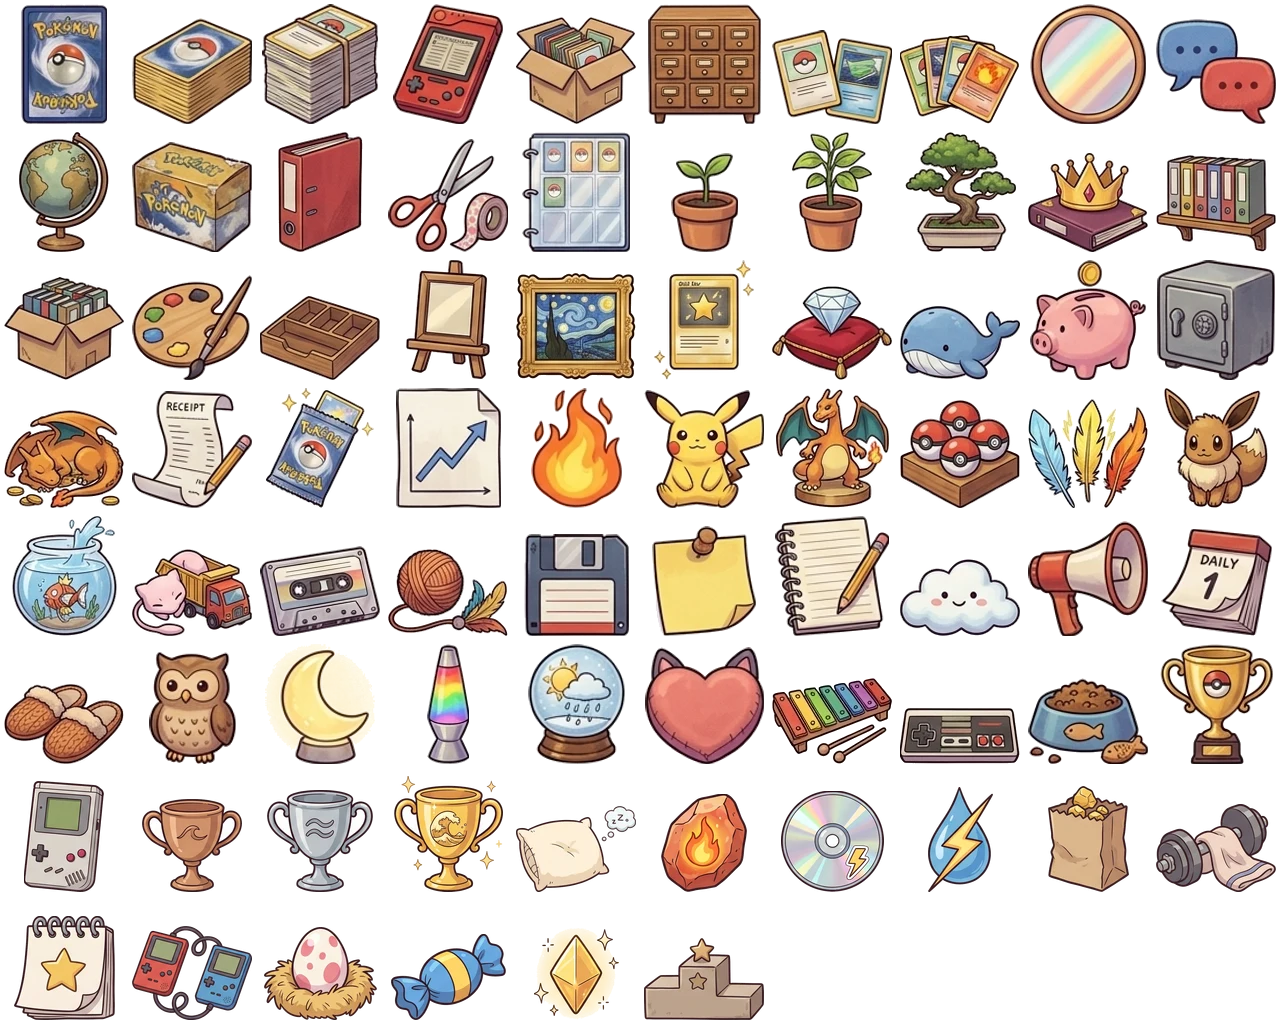
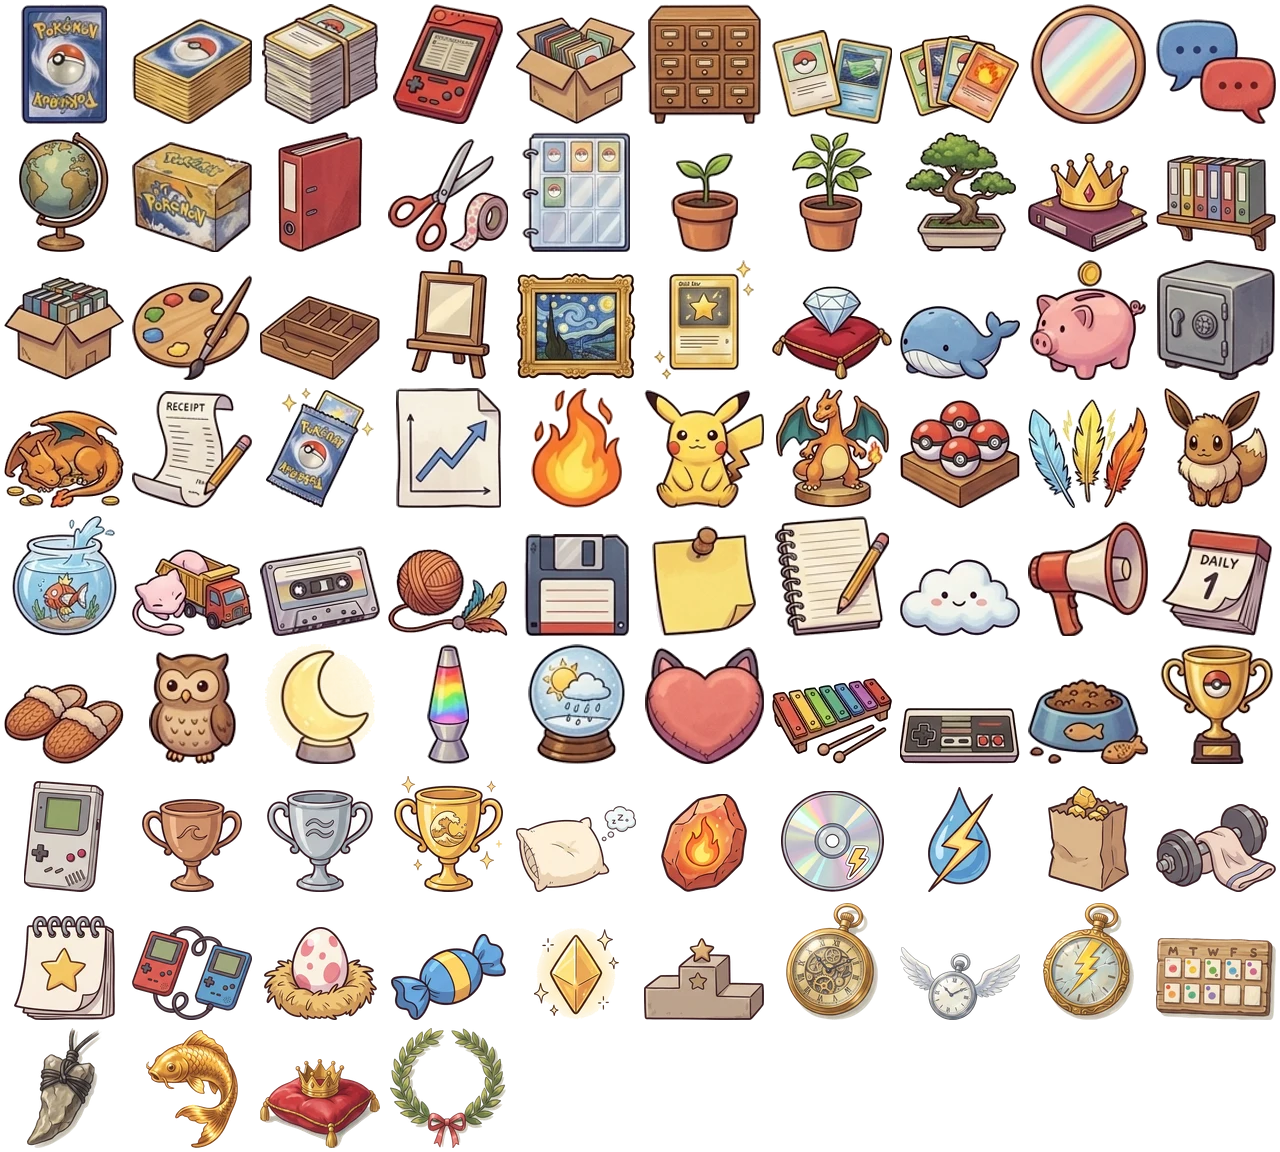
Nook Survivors: 8 trophies for the daily challenge (wins, times, the 7 Pokemon, top of the day, a titan) and the 100th wave

diff --git a/src/lib/trophies.ts b/src/lib/trophies.ts
@@ -137,6 +137,7 @@ export const TROPHIES: Trophy[] = [
   { id: "game-wave10", tier: "bronze", cat: "game", name: { fr: "Ça tient bon", en: "Holding on" }, desc: { fr: "Atteins la vague 10.", en: "Reach wave 10." } },
   { id: "game-wave20", tier: "silver", cat: "game", name: { fr: "Increvable", en: "Unstoppable" }, desc: { fr: "Atteins la vague 20.", en: "Reach wave 20." } },
   { id: "game-wave30", tier: "gold", cat: "game", name: { fr: "Légende des vagues", en: "Wave legend" }, desc: { fr: "Atteins la vague 30.", en: "Reach wave 30." } },
+  { id: "game-wave100", tier: "gold", cat: "game", name: { fr: "Centenaire", en: "Centenarian" }, desc: { fr: "Survis aux 100 vagues.", en: "Survive all 100 waves." } },
   { id: "game-boss", tier: "bronze", cat: "game", name: { fr: "Réveil difficile", en: "Rude awakening" }, desc: { fr: "Bats ton premier boss.", en: "Beat your first boss." } },
   { id: "game-evolve", tier: "bronze", cat: "game", name: { fr: "Quoi ?!", en: "What?!" }, desc: { fr: "Fais évoluer ton Pokémon en pleine partie.", en: "Evolve your Pokémon mid-run." } },
   { id: "game-evomove", tier: "silver", cat: "game", name: { fr: "Capacité ultime", en: "Ultimate move" }, desc: { fr: "Fais évoluer une capacité.", en: "Evolve a move." } },
@@ -149,6 +150,14 @@ export const TROPHIES: Trophy[] = [
   { id: "game-rarecandy", tier: "bronze", cat: "game", name: { fr: "Super Bonbon", en: "Rare Candy" }, desc: { fr: "Ramasse un Super Bonbon.", en: "Pick up a Rare Candy." } },
   { id: "game-revive", tier: "silver", cat: "game", name: { fr: "Rappel", en: "Revive" }, desc: { fr: "Reviens d'un K.O. en pleine partie.", en: "Come back from a KO mid-run." } },
   { id: "game-top3", tier: "gold", cat: "game", name: { fr: "Sur le podium", en: "On the podium" }, desc: { fr: "Entre dans le top 3 d'un classement.", en: "Get into a ladder's top 3." } },
+  // the daily challenge (since 2026-10-15)
+  { id: "defi-first", tier: "bronze", cat: "game", name: { fr: "Premier chrono", en: "First time" }, desc: { fr: "Gagne un défi du jour.", en: "Win a daily challenge." } },
+  { id: "defi-fast", tier: "silver", cat: "game", name: { fr: "Sur les chapeaux de roue", en: "Flat out" }, desc: { fr: "Gagne un défi du jour en moins de 5:00.", en: "Win a daily challenge in under 5:00." } },
+  { id: "defi-blitz", tier: "gold", cat: "game", name: { fr: "Éclair", en: "Lightning" }, desc: { fr: "Gagne un défi du jour en moins de 3:30.", en: "Win a daily challenge in under 3:30." } },
+  { id: "defi-week", tier: "gold", cat: "game", name: { fr: "Semaine parfaite", en: "Perfect week" }, desc: { fr: "Gagne le défi avec chacun des 7 Pokémon.", en: "Win the challenge with each of the 7 Pokémon." } },
+  { id: "defi-titan", tier: "bronze", cat: "game", name: { fr: "Tueur de titans", en: "Titan slayer" }, desc: { fr: "Mets un titan K.O.", en: "Knock out a titan." } },
+  { id: "defi-karp", tier: "silver", cat: "game", name: { fr: "Si si, Magicarpe", en: "Yes, Magikarp" }, desc: { fr: "Gagne le défi de Magicarpe.", en: "Win Magikarp's challenge." } },
+  { id: "defi-top1", tier: "gold", cat: "game", name: { fr: "Champion du jour", en: "Champion of the day" }, desc: { fr: "Finis 1er du classement du défi.", en: "Top the challenge's board." } },
 
   // Secrets: no hint but "???" until found
   { id: "night-owl", tier: "silver", cat: "secret", secret: true, name: { fr: "Oiseau de nuit", en: "Night owl" }, desc: { fr: "Au bureau entre minuit et 5 h.", en: "At the desk between midnight and 5 am." } },

diff --git a/src/lib/game/engine.ts b/src/lib/game/engine.ts
@@ -7,7 +7,7 @@ import {
   BONUSES, BOSSES, COMBOS, ITEMS, MAX_ITEMS, MAX_LEVEL, MAX_MOVES, MOVES, NAMES, POOLS, RARITY, RETIRE, REWARD_STARTERS, STARTERS, WAVE_SECONDS, WILD, xpFor,
   DAILY_MODS, type BonusId, type DailyMod, type PensionId, type Rarity, type BossDef, type BossMove, type Elem, type ItemId, type Lang, type MoveId, type Starter, type Wild,
 } from "./data";
-import { DEFI_QUOTA, DEFI_WAVES, DEFI_WILD, TITAN, type Defi } from "./defi";
+import { DEFI_MONS, DEFI_QUOTA, DEFI_WAVES, DEFI_WILD, TITAN, type Defi } from "./defi";
 import { SH, SW, T, TILE, TYPE_FX, anim, animSeconds, dirOf, frameAt, mon, type AnimName, type ColorKey, type Gfx } from "./gfx";
 
 /** after each boss, a break: everyone healed, the levels won, shop (Kecleon's), countdown (3-2-1) */
@@ -16,6 +16,8 @@ export type Phase = "title" | "select" | "play" | "levelup" | "evolve" | "paused
 export type Mode = "classic" | "daily" | "coop" | "defi";
 /** the classic and coop runs end there, won once its boss falls */
 export const MAX_WAVE = 100;
+/** the daily challenge's Pokémon won with (dex of their first form), for "defi-week": per device */
+const DEFI_WINS_KEY = "nookdex:defi-wins";
 
 /** what a run is played with: the Pension's levels (none in the daily), the daily's rule */
 export interface RunSetup {
@@ -1127,6 +1129,8 @@ export class Game {
   private finish(won: boolean) {
     const daily = this.setup.daily;
     if (this.setup.mode === "coop") unlock("game-coop");
+    if (won && !this.setup.defi) unlock("game-wave100");
+    if (won && this.setup.defi) this.defiWon(this.players[0].starter.dex, Math.floor(this.time));
     const met = !!daily && this.wave >= daily.target;
     this.lastStats = {
       mode: this.setup.mode, day: daily?.day ?? this.setup.defi?.day, gold: this.gold, dailyBonus: daily ? dailyReward(this.wave, met) : 0, dailyWon: met, won,
@@ -1135,6 +1139,20 @@ export class Game {
     };
     music.stop();
     this.set("over");
+  }
+
+  /** a daily challenge won: its trophies (the week's Pokémon won with are kept on this device) */
+  private defiWon(dex: number, seconds: number) {
+    unlock("defi-first");
+    if (seconds < 300) unlock("defi-fast");
+    if (seconds < 210) unlock("defi-blitz");
+    if (dex === 129) unlock("defi-karp");
+    try {
+      const wins: number[] = JSON.parse(localStorage.getItem(DEFI_WINS_KEY) ?? "[]");
+      if (!wins.includes(dex)) wins.push(dex);
+      localStorage.setItem(DEFI_WINS_KEY, JSON.stringify(wins));
+      if (DEFI_MONS.every((m) => wins.includes(m.dex))) unlock("defi-week");
+    } catch {}
   }
 
   private stepMenu() {
@@ -2173,6 +2191,7 @@ export class Game {
       }
     }
     const xp = (e.w?.xp ?? 0) * (e.elite ? 4 : e.titan ? TITAN.xp : 1);
+    if (e.titan) unlock("defi-titan");
     if (e.boss && (this.setup.defi || e.final)) this.bossDown(e);
     else if (e.boss) {
       unlock("game-boss");

diff --git a/src/data/changelog.ts b/src/data/changelog.ts
@@ -45,6 +45,10 @@ export const CHANGELOG: Release[] = [
         fr: "16 nouveaux trophées à gagner dans le jeu, sur leur propre étagère de la vitrine.",
         en: "16 new trophies to win in the game, on their own shelf of the trophy case.",
       },
+      {
+        fr: "8 trophées de plus : gagner le défi du jour (et vite), avec chacun de ses 7 Pokémon, finir premier du jour, abattre un titan… et survivre aux 100 vagues.",
+        en: "8 more trophies: win the daily challenge (and fast), with each of its 7 Pokémon, top the day's board, fell a titan… and survive all 100 waves.",
+      },
     ],
   },
   {

diff --git a/src/components/game/NookBoy.tsx b/src/components/game/NookBoy.tsx
@@ -462,6 +462,8 @@ export default function NookBoy({ origin, onClose }: Props) {
     setSent(rank ?? "error");
     if (rank != null) {
       if (rank <= 3) unlock("game-top3");
+      // the challenge's rank is the day's board
+      if (rank === 1 && run.mode === "defi") unlock("defi-top1");
       gsfx.ok();
       void openLadder(run.mode === "coop" ? 3 : run.mode === "classic" ? 0 : 1);
     } else gsfx.back();

diff --git a/CLAUDE.md b/CLAUDE.md
@@ -136,14 +136,14 @@ doesn't show.
 
 ## Trophies
 
-- `lib/trophies.ts` (the 76: 60 for the desk and the collection, 16 for Nook Survivors won in the game and not needed
+- `lib/trophies.ts` (the 84: 60 for the desk and the collection, 24 for Nook Survivors won in the game and not needed
   for "all"; `factsOf` worked out from the collection), won by `useTrophyWatch` (debounced, waits for the
   cloud) or by `unlock(id)` on a gesture (room easter eggs, OS, share, combo, tip links). Kept in their own store
   (`lib/trophyStore`, localStorage `nookdex:trophies`), ride in the save (`Backup.trophies`) and the cloud, merged and never
   in the conflict fingerprint. Toasts `room/TrophyToast` (4+ at once = one summary), case `room/TrophyCase` from the
   Poké Ball hotspot on the top shelf (`data-tour="trophies"`).
 - Their pictures: painted trinkets drawn by Gemini on white sheets (`img/trophies.jpg` 10×6, `img/trophies-game.jpg` 4×4,
-  in the order of `ORDER` / `ORDER_GAME` in `scripts/build-trophies.mjs`), cut out by that script into `public/trophies.webp` + `src/data/trophy-art.json`. A new
+  `img/trophies-defi.jpg` 4×2, in the order of `ORDER` / `ORDER_GAME` / `ORDER_GAME2` in `scripts/build-trophies.mjs`), cut out by that script into `public/trophies.webp` + `src/data/trophy-art.json`. A new
   trophy needs its trinket: a new sheet (same style prompt) and the script run again.
 
 ## Versions and the road log

diff --git a/docs/defi.md b/docs/defi.md
@@ -81,9 +81,8 @@ appelle `g.tick` en boucle pour accélérer. Il passe par `window.nookboy` et `w
 
 ## À faire (prochaines fois)
 
-- **Trophées du défi** (ce soir) : la planche Gemini (prompt ci-dessous), puis les ajouter dans `lib/trophies.ts`,
-  `ORDER_GAME2` dans `scripts/build-trophies.mjs` (nouvelle planche `img/trophies-defi.jpg`), et les `unlock()` dans
-  le moteur (`bossDown`, `finish`).
+- ~~Trophées du défi~~ : faits le 2026-10-14 (planche `img/trophies-defi.jpg`, `ORDER_GAME2`, `defiWon` dans le
+  moteur). « Semaine parfaite » retient les Pokémon gagnés sur l'appareil (localStorage `nookdex:defi-wins`).
 - Retirer l'ancien défi (`dailyOf`, `DAILY_MODS`, `game-daily`…) une fois le 15 passé et son classement plus utile.
 - Régler avec les retours des joueurs : `DEFI_QUOTA`, les PV des boss dans `DEFI_DAYS`, l'XP ×1,8, `defiPower` ×1,5.
 - Idées : un 2e Pokémon par jour (le joueur choisit), des règles du jour en plus (comme l'ancien défi), une
